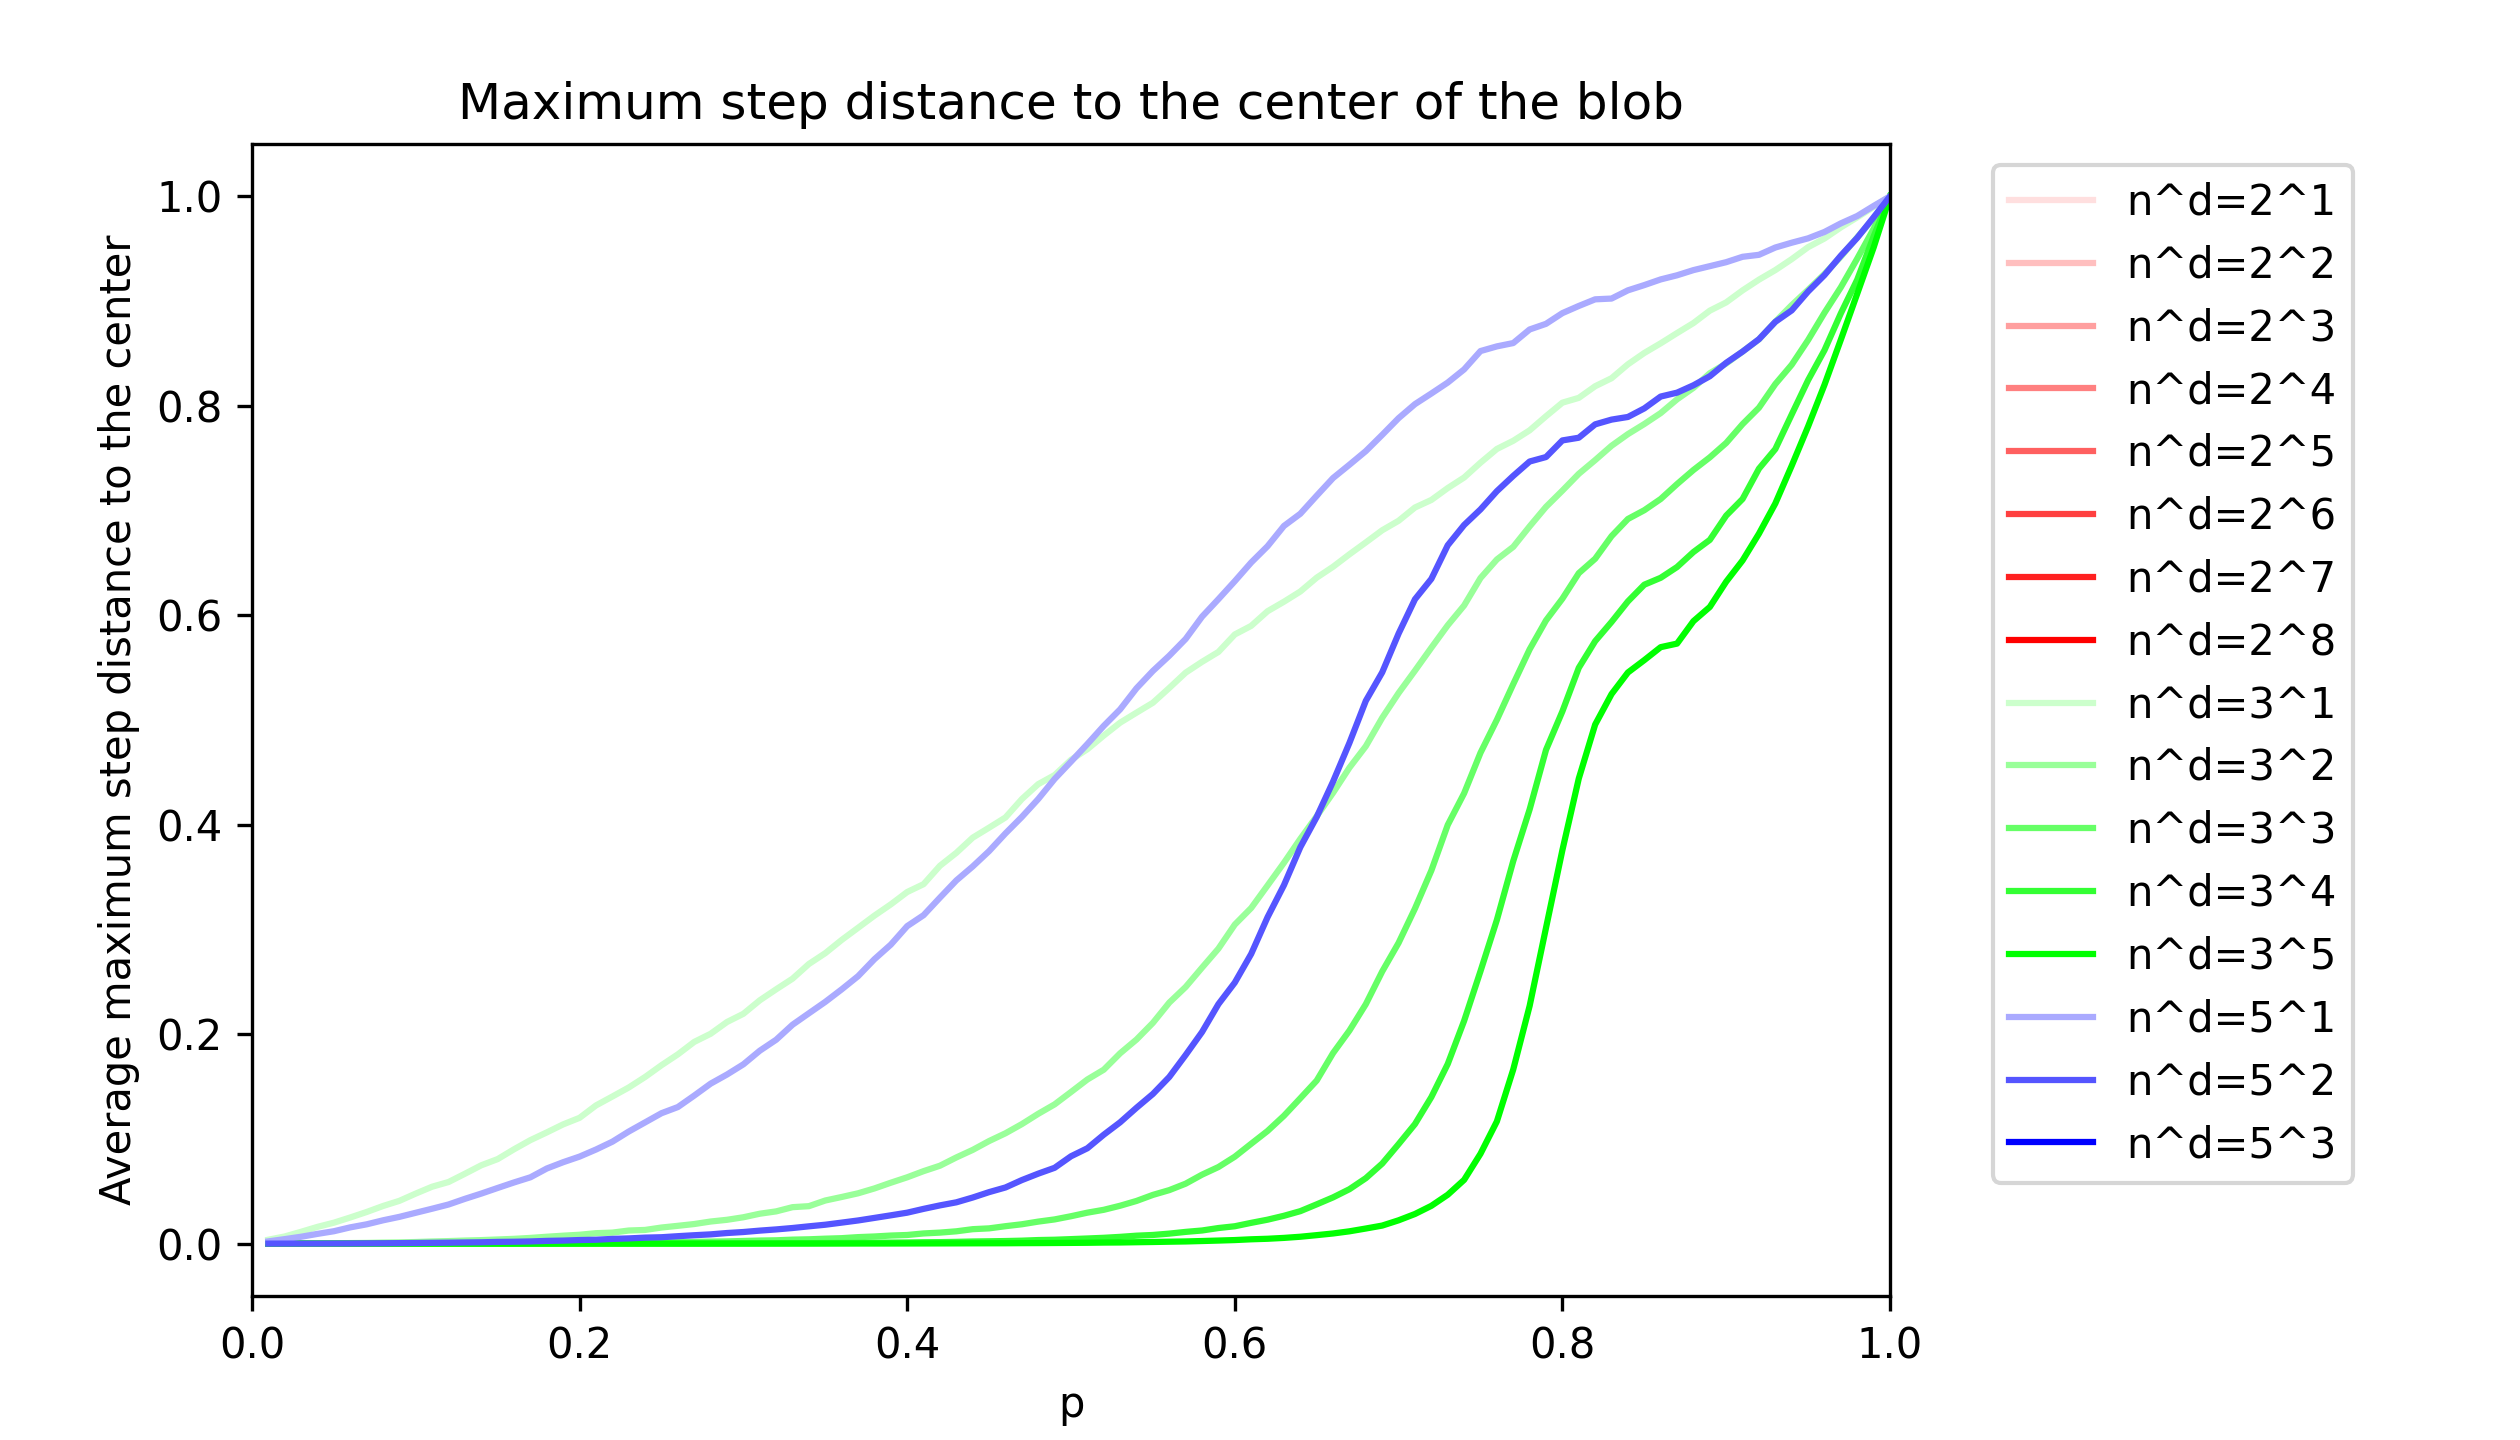
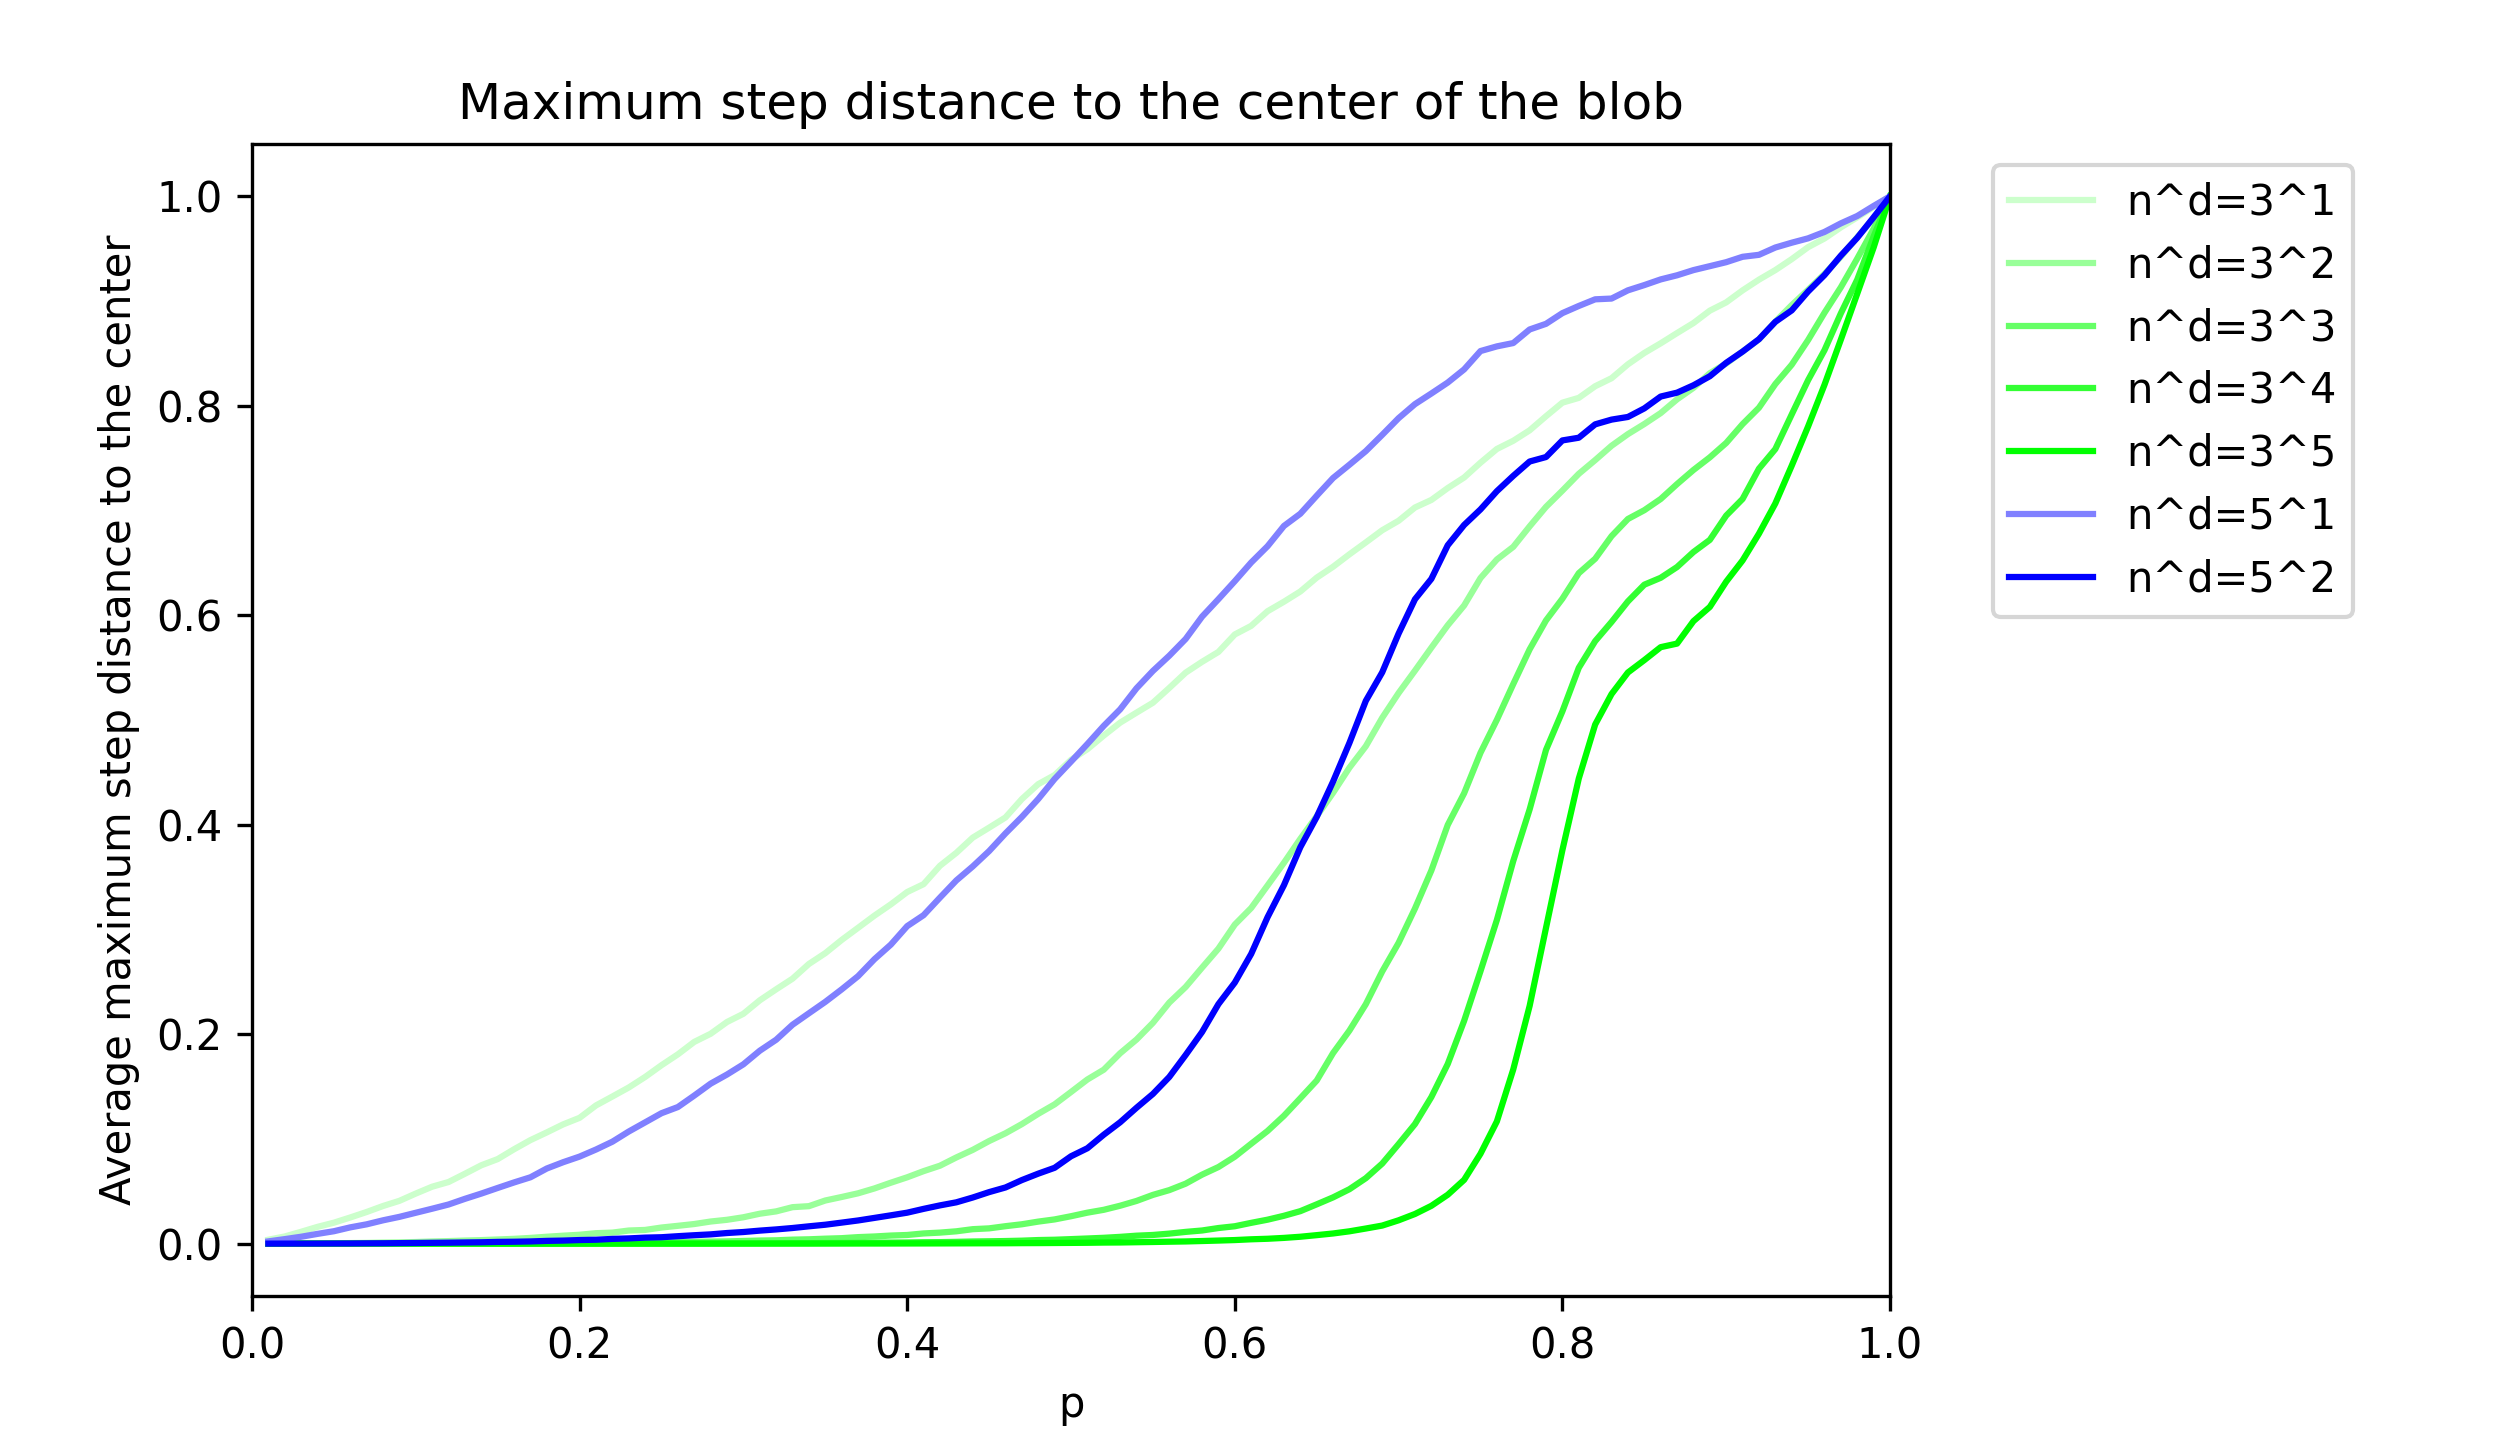
updated blob plots

diff --git a/data_visualization/blobData3D.py b/data_visualization/blobData3D.py
@@ -7,15 +7,9 @@ data = pd.read_csv('data/blob_3D_50000.csv')
 data = data.sort_values(["p", "d", "n"])
 data["side"] = data["n"]**(data["d"])
 data["max"] = data["rep"] * (data["side"]**3)
-#data["density"] = data["sq"] / data['max']
-#data["dim"] = np.log(data["sq"]) / np.log(data["max"])
-data["avg_vol"] = data["vol"] / data["rep"]
-data["rel_avg_vol"] = data["avg_vol"] / (data["side"]**3)
-data["avg_area"] = data["area"] / data["rep"]
-data["rel_avg_area"] = data["avg_area"] / (data["side"]**2)
-data["avg_dist"] = data["dist"] / data["rep"]
-data["rel_avg_dist"] = data["avg_dist"] / (data["side"])
-data["avg_step"] = 1+ (data["step"] / data["rep"])
-data["rel_avg_step"] = data["avg_step"] / (data["side"])
+data["avg_vol"] = data["vol"] / data["rep"] / ((data["n"]**data["d"])**3)
+data["avg_area"] = data["area"] / data["rep"] / ((data["n"]**data["d"])**2)
+data["avg_dist"] = data["dist"] / data["rep"] / (data["n"]**data["d"])
+data["avg_step"] = (data["rep"]+data["step"]) / data["rep"] / (data["n"]**data["d"])
 
 

diff --git a/data_visualization/blobData2D.py b/data_visualization/blobData2D.py
@@ -7,15 +7,9 @@ data = pd.read_csv('data/blob_2D_50000.csv')
 data = data.sort_values(["p", "d", "n"])
 data["side"] = data["n"]**(data["d"])
 data["max"] = data["rep"] * (data["side"]**2)
-#data["density"] = data["sq"] / data['max']
-#data["dim"] = np.log(data["sq"]) / np.log(data["max"])
-data["avg_vol"] = data["vol"] / data["rep"]
-data["rel_avg_vol"] = data["avg_vol"] / (data["side"]**2)
-data["avg_area"] = data["area"] / data["rep"]
-data["rel_avg_area"] = data["avg_area"] / (data["side"])
-data["avg_dist"] = data["dist"] / data["rep"]
-data["rel_avg_dist"] = data["avg_dist"] / (data["side"])
-data["avg_step"] = data["step"] / data["rep"]
-data["rel_avg_step"] = data["avg_step"] / (data["side"])
+data["avg_vol"] = (data["vol"] / data["rep"]) / ((data["n"]**data["d"])**2)
+data["avg_area"] = data["area"] / data["rep"] / (data["n"]**data["d"])
+data["avg_dist"] = data["dist"] / data["rep"] / (data["n"]**data["d"])
+data["avg_step"] = data["step"] / data["rep"] / (data["n"]**data["d"])
 
 

diff --git a/data_visualization/blob2D_avg_step.py b/data_visualization/blob2D_avg_step.py
@@ -8,7 +8,7 @@ def plot_set(n, max_d, r,g,b):
         f2 = df["d"]==d #filter
         df = df[f2]
         x = df['p']
-        y = df['rel_avg_step']
+        y = df['avg_step']
         plt.plot(x, y, label='n^d='+str(n)+'^'+str(d), c=(1-r*d/max_d, 1-g*d/max_d, 1-b*d/max_d))
 
 
@@ -20,14 +20,14 @@ def plot_set2(ns, d):
         f2 = df["d"]==d #filter
         df = df[f2]
         x = df['p']
-        y = df['rel_avg_step']
+        y = df['avg_step']
         plt.plot(x, y, label='n^d='+str(n)+'^'+str(d))
 
 
 plt.figure(figsize=[8.4, 4.8])
-plot_set(2, 8, 0,1,1)
+#plot_set(2, 8, 0,1,1)
 plot_set(3, 5, 1,0,1)
-plot_set(5, 3, 1,1,0)
+plot_set(5, 2, 1,1,0)
 plt.title("Maximum step distance to the center of the blob")
 plt.xlabel("p")
 plt.ylabel("Average maximum step distance to the center")

diff --git a/data_visualization/blob2D_avg_vol.py b/data_visualization/blob2D_avg_vol.py
@@ -8,7 +8,7 @@ def plot_set(n, max_d, r,g,b):
         f2 = df["d"]==d #filter
         df = df[f2]
         x = df['p']
-        y = df['rel_avg_vol']
+        y = df['avg_vol']
         plt.plot(x, y, label='n^d='+str(n)+'^'+str(d), c=(1-r*d/max_d, 1-g*d/max_d, 1-b*d/max_d))
 
 
@@ -19,7 +19,7 @@ def plot(n, d, r,g,b):
     f2 = df["d"]==d #filter
     df = df[f2]
     x = df['p']
-    y = df['rel_avg_vol']
+    y = df['avg_vol']
     plt.plot(x, y, label='n^d='+str(n)+'^'+str(d), c=(1-r, 1-g, 1-b))
 
 
@@ -31,7 +31,7 @@ def plot_set2(ns, d):
         f2 = df["d"]==d #filter
         df = df[f2]
         x = df['p']
-        y = df['rel_avg_vol']
+        y = df['avg_vol']
         plt.plot(x, y, label='n^d='+str(n)+'^'+str(d))
 
 

diff --git a/data_visualization/blob3D_avg_vol.py b/data_visualization/blob3D_avg_vol.py
@@ -8,7 +8,7 @@ def plot_set(n, max_d, r,g,b):
         f2 = df["d"]==d #filter
         df = df[f2]
         x = df['p']
-        y = df['rel_avg_vol']
+        y = df['avg_vol']
         plt.plot(x, y, label='n^d='+str(n)+'^'+str(d), c=(1-r*d/max_d, 1-g*d/max_d, 1-b*d/max_d))
 
 
@@ -19,7 +19,7 @@ def plot(n, d, r,g,b):
     f2 = df["d"]==d #filter
     df = df[f2]
     x = df['p']
-    y = df['rel_avg_vol']
+    y = df['avg_vol']
     plt.plot(x, y, label='n^d='+str(n)+'^'+str(d), c=(1-r, 1-g, 1-b))
 
 
@@ -31,7 +31,7 @@ def plot_set2(ns, d):
         f2 = df["d"]==d #filter
         df = df[f2]
         x = df['p']
-        y = df['rel_avg_vol']
+        y = df['avg_vol']
         plt.plot(x, y, label='n^d='+str(n)+'^'+str(d))
 
 

diff --git a/data_visualization/blob2D_avg_area.py b/data_visualization/blob2D_avg_area.py
@@ -8,7 +8,7 @@ def plot_set(n, max_d, r,g,b):
         f2 = df["d"]==d #filter
         df = df[f2]
         x = df['p']
-        y = df['rel_avg_area']
+        y = df['avg_area']
         plt.plot(x, y, label='n^d='+str(n)+'^'+str(d), c=(1-r*d/max_d, 1-g*d/max_d, 1-b*d/max_d))
 
 
@@ -20,7 +20,7 @@ def plot_set2(ns, d):
         f2 = df["d"]==d #filter
         df = df[f2]
         x = df['p']
-        y = df['rel_avg_area']
+        y = df['avg_area']
         plt.plot(x, y, label='n^d='+str(n)+'^'+str(d))
 
 

diff --git a/data_visualization/blob2D_avg_dist.py b/data_visualization/blob2D_avg_dist.py
@@ -8,7 +8,7 @@ def plot_set(n, max_d, r,g,b):
         f2 = df["d"]==d #filter
         df = df[f2]
         x = df['p']
-        y = df['rel_avg_dist']
+        y = df['avg_dist']
         plt.plot(x, y, label='n^d='+str(n)+'^'+str(d), c=(1-r*d/max_d, 1-g*d/max_d, 1-b*d/max_d))
 
 
@@ -20,7 +20,7 @@ def plot_set2(ns, d):
         f2 = df["d"]==d #filter
         df = df[f2]
         x = df['p']
-        y = df['rel_avg_dist']
+        y = df['avg_dist']
         plt.plot(x, y, label='n^d='+str(n)+'^'+str(d))
 
 

diff --git a/data_visualization/blob3D_avg_area.py b/data_visualization/blob3D_avg_area.py
@@ -8,7 +8,7 @@ def plot_set(n, max_d, r,g,b):
         f2 = df["d"]==d #filter
         df = df[f2]
         x = df['p']
-        y = df['rel_avg_area']
+        y = df['avg_area']
         plt.plot(x, y, label='n^d='+str(n)+'^'+str(d), c=(1-r*d/max_d, 1-g*d/max_d, 1-b*d/max_d))
 
 
@@ -20,7 +20,7 @@ def plot_set2(ns, d):
         f2 = df["d"]==d #filter
         df = df[f2]
         x = df['p']
-        y = df['rel_avg_area']
+        y = df['avg_area']
         plt.plot(x, y, label='n^d='+str(n)+'^'+str(d))
 
 

diff --git a/data_visualization/blob3D_avg_dist.py b/data_visualization/blob3D_avg_dist.py
@@ -8,7 +8,7 @@ def plot_set(n, max_d, r,g,b):
         f2 = df["d"]==d #filter
         df = df[f2]
         x = df['p']
-        y = df['rel_avg_dist']
+        y = df['avg_dist']
         plt.plot(x, y, label='n^d='+str(n)+'^'+str(d), c=(1-r*d/max_d, 1-g*d/max_d, 1-b*d/max_d))
 
 
@@ -20,7 +20,7 @@ def plot_set2(ns, d):
         f2 = df["d"]==d #filter
         df = df[f2]
         x = df['p']
-        y = df['rel_avg_dist']
+        y = df['avg_dist']
         plt.plot(x, y, label='n^d='+str(n)+'^'+str(d))
 
 

diff --git a/data_visualization/blob3D_avg_step.py b/data_visualization/blob3D_avg_step.py
@@ -8,7 +8,7 @@ def plot_set(n, max_d, r,g,b):
         f2 = df["d"]==d #filter
         df = df[f2]
         x = df['p']
-        y = df['rel_avg_step']
+        y = df['avg_step']
         plt.plot(x, y, label='n^d='+str(n)+'^'+str(d), c=(1-r*d/max_d, 1-g*d/max_d, 1-b*d/max_d))
 
 
@@ -20,7 +20,7 @@ def plot_set2(ns, d):
         f2 = df["d"]==d #filter
         df = df[f2]
         x = df['p']
-        y = df['rel_avg_step']
+        y = df['avg_step']
         plt.plot(x, y, label='n^d='+str(n)+'^'+str(d))
 
 
